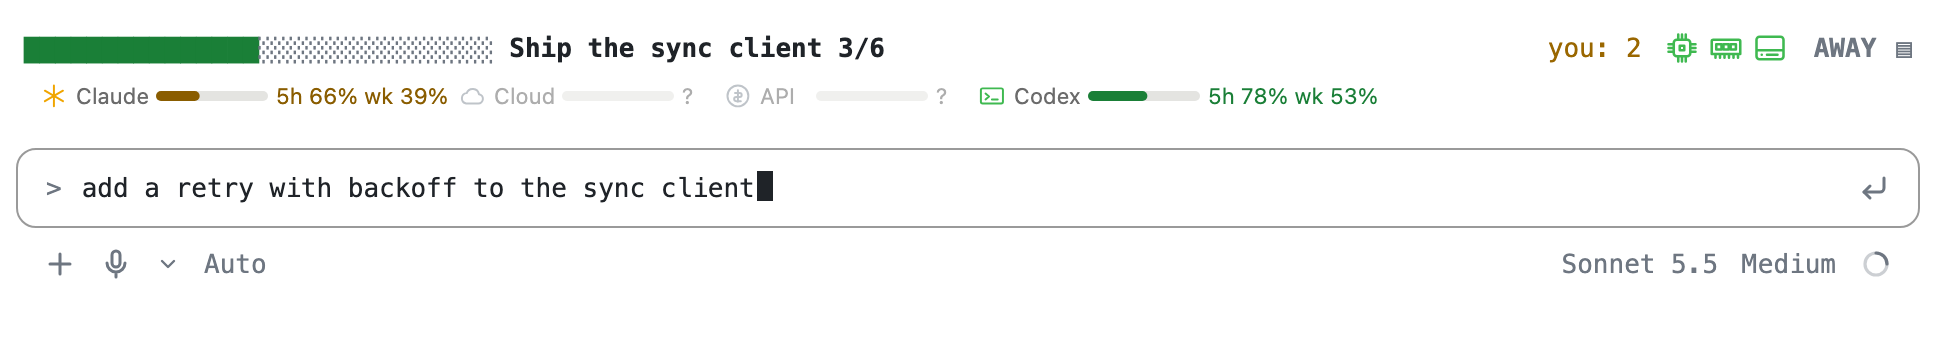
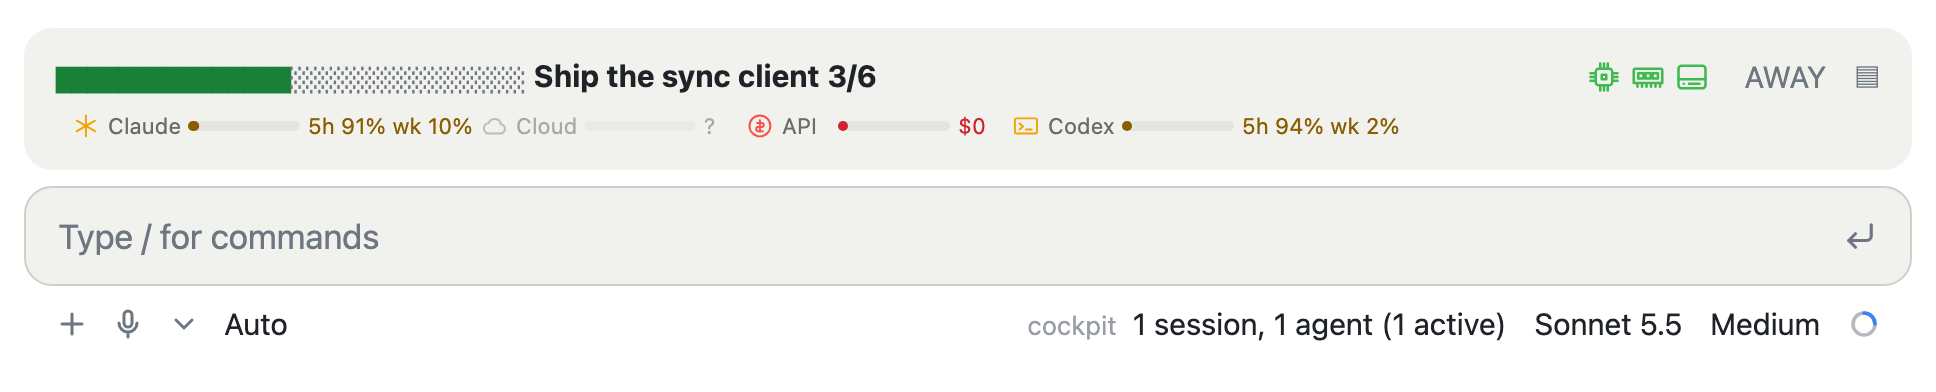
COCKPIT-64: the README status-row picture matches the real cockpit screen (status card, empty input box, footer slot text, real meter colours)

diff --git a/tools/shot.ts b/tools/shot.ts
@@ -364,12 +364,12 @@ async function shootRow(theme: 'dark' | 'light', file: string): Promise<string> 
   const fg = dark ? '#ececec' : '#1f2328'
   const dim = dark ? '#8b8b8b' : '#6e7681'
   const box = dark ? '#6b6b6b' : '#9a9a9a'
-  const W = bandPx(120)
+  const W = bandPx(120) + 16
   const T = now
-  const win = claudeWindows([{ kind: 'five_hour', percentUsed: 34, resetsAt: new Date(T + 3 * 3_600_000).toISOString() }, { kind: 'seven_day', percentUsed: 61, resetsAt: new Date(T + 3 * 86_400_000).toISOString() }], emptyCache, T)
-  const lim = `{"rate_limits":{"primary":{"used_percent":22,"window_minutes":300,"resets_at":${Math.floor(T / 1000) + 9000}},"secondary":{"used_percent":47,"window_minutes":10080,"resets_at":${Math.floor(T / 1000) + 300000}}}}\n`
-  const cr = parseCreditsFile(JSON.stringify({ opencode: { total: 200, left: 118.4, expires: '2026-11-01', source: 'console' }, cloud: { expires: '2026-11-30' } }))
-  const rows = serviceRows({ nowMs: T, claude: { five: win.five, week: win.week }, codex: codexPool(parseCodexLimits(lim), T, null), codexAtMs: T, credits: cr, creditsAtMs: T, apiSpendSince: { usd: 31, atMs: T }, rows: [], outages: [], localUp: true })
+  const win = claudeWindows([{ kind: 'five_hour', percentUsed: 9, resetsAt: new Date(T + 3 * 3_600_000).toISOString() }, { kind: 'seven_day', percentUsed: 90, resetsAt: new Date(T + 3 * 86_400_000).toISOString() }], emptyCache, T)
+  const lim = `{"rate_limits":{"primary":{"used_percent":6,"window_minutes":300,"resets_at":${Math.floor(T / 1000) + 9000}},"secondary":{"used_percent":98,"window_minutes":10080,"resets_at":${Math.floor(T / 1000) + 300000}}}}\n`
+  const cr = parseCreditsFile(JSON.stringify({ opencode: { total: 200, left: 0, expires: '2026-11-30', source: 'console 2026-10-01' }, cloud: { expires: '2026-11-30' } }))
+  const rows = serviceRows({ nowMs: T, claude: { five: win.five, week: win.week }, codex: codexPool(parseCodexLimits(lim), T, null), codexAtMs: T, credits: cr, creditsAtMs: T, apiSpendSince: { usd: 0, atMs: T }, rows: [], outages: [], localUp: true })
   const reading = { ...emptyReading, memFree: 41, swapMB: 0, load1: 3.4, cores: 10, diskFree: 52 }
   const icons = healthIcons(reading, [])
   const iconsSvg = `<svg width="${icons.length * 22}" height="20" xmlns="http://www.w3.org/2000/svg">${icons.map((ic, i) => glyphFragment(ic.kind, ic.hex, i * 22 + 1, 1, 18)).join('')}</svg>`
@@ -378,14 +378,17 @@ async function shootRow(theme: 'dark' | 'light', file: string): Promise<string> 
   const tb = textBar(0.5, hc.cells)
   const green = dark ? '#3FB950' : '#1a7f37'
   const amber = dark ? '#F0A500' : '#9a6700'
-  const row1 = `<div style="display:flex;justify-content:space-between;align-items:center;white-space:pre"><div><span style="color:${green}">${tb.filled}</span><span style="color:${dim}">${tb.empty}</span> <b>${hc.title}</b> <b>${hc.count}</b></div><div style="display:flex;align-items:center;gap:10px"><span style="color:${amber}">you: 2</span>${iconsSvg}<b style="color:${dim}">AWAY</b><span style="color:${dim}">\u25a4</span></div></div>`
-  const row2 = img(creditsSvg(W - 16, rows), W - 16, 28)
-  const html = `<!doctype html><meta charset="utf-8"><body style="margin:0;background:${bg};color:${fg};font:13px/20px Menlo,Monaco,monospace"><div style="width:${W}px;padding:14px 8px 12px"><div style="padding:0 4px">${row1}${row2}</div>
-<div style="margin:12px 0 0;border:1px solid ${box};border-radius:10px;padding:9px 14px;display:flex;gap:10px;align-items:flex-start"><span style="color:${dim}">&gt;</span><span style="flex:1">add a retry with backoff to the sync client<span style="display:inline-block;width:8px;height:15px;background:${fg};vertical-align:-2px;margin-left:1px"></span></span><svg width="16" height="18" viewBox="0 0 16 16" fill="none" stroke="${dim}" stroke-width="1.5" stroke-linecap="round" stroke-linejoin="round" style="margin-top:1px"><path d="M13 3v5a2 2 0 0 1-2 2H3"/><path d="M6 7l-3 3 3 3"/></svg></div>
-<div style="padding:8px 14px 0;color:${dim};display:flex;justify-content:space-between;align-items:center"><span style="display:flex;align-items:center;gap:12px"><svg width="16" height="16" viewBox="0 0 16 16" fill="none" stroke="${dim}" stroke-width="1.5" stroke-linecap="round"><path d="M8 3v10M3 8h10"/></svg><svg width="16" height="16" viewBox="0 0 16 16" fill="none" stroke="${dim}" stroke-width="1.5" stroke-linecap="round" stroke-linejoin="round"><rect x="6" y="1.5" width="4" height="8" rx="2"/><path d="M3.5 7.5a4.5 4.5 0 0 0 9 0M8 12v2.5"/></svg><svg width="12" height="12" viewBox="0 0 16 16" fill="none" stroke="${dim}" stroke-width="1.6" stroke-linecap="round" stroke-linejoin="round"><path d="M4 6l4 4 4-4"/></svg><span>Auto</span></span><span style="display:flex;align-items:center;gap:12px"><span>Sonnet 5.5</span><span>Medium</span><svg width="16" height="16" viewBox="0 0 16 16" fill="none" stroke="${dim}" stroke-width="1.6" stroke-linecap="round"><circle cx="8" cy="8" r="5.5" opacity=".35"/><path d="M8 2.5a5.5 5.5 0 0 1 5.5 5.5"/></svg></span></div></div>`
+  const cardBg = dark ? '#222222' : '#f1f1ee'
+  const pageBg = dark ? '#171717' : '#ffffff'
+  const row1 = `<div style="display:flex;justify-content:space-between;align-items:center;white-space:pre"><div><span style="font-family:Menlo,Monaco,monospace;font-size:13px"><span style="color:${green}">${tb.filled}</span><span style="color:${dim}">${tb.empty}</span></span> <b>${hc.title}</b> <b>${hc.count}</b></div><div style="display:flex;align-items:center;gap:14px">${iconsSvg}<span style="color:${dim};font-size:15px">AWAY</span><span style="color:${dim}">\u25a4</span></div></div>`
+  const row2 = img(creditsSvg(W - 56, rows), W - 56, 28)
+  const ic = (d: string): string => `<svg width="16" height="16" viewBox="0 0 16 16" fill="none" stroke="${dim}" stroke-width="1.5" stroke-linecap="round" stroke-linejoin="round">${d}</svg>`
+  const html = `<!doctype html><meta charset="utf-8"><body style="margin:0;background:${pageBg};color:${fg};font:13px/20px Menlo,Monaco,monospace"><div style="width:${W}px;padding:14px 12px 12px;box-sizing:border-box"><div style="background:${cardBg};border-radius:14px;padding:14px 16px 8px;font-family:-apple-system,BlinkMacSystemFont,sans-serif;font-size:15px">${row1}${row2}</div>
+<div style="margin:8px 0 0;background:${cardBg};border:1px solid ${dark ? '#3a3a3a' : '#cfcfca'};border-radius:14px;padding:14px 16px;display:flex;gap:10px;align-items:center;font:17px -apple-system,BlinkMacSystemFont,sans-serif"><span style="flex:1;color:${dim}">Type / for commands</span><svg width="18" height="18" viewBox="0 0 16 16" fill="none" stroke="${dim}" stroke-width="1.4" stroke-linecap="round" stroke-linejoin="round"><path d="M13 3v5a2 2 0 0 1-2 2H3"/><path d="M6 7l-3 3 3 3"/></svg></div>
+<div style="padding:10px 16px 0;color:${dim};display:flex;justify-content:space-between;align-items:center;font:15px -apple-system,BlinkMacSystemFont,sans-serif"><span style="display:flex;align-items:center;gap:12px">${ic('<path d="M8 3v10M3 8h10"/>')}${ic('<rect x="6" y="1.5" width="4" height="8" rx="2"/><path d="M3.5 7.5a4.5 4.5 0 0 0 9 0M8 12v2.5"/>')}${ic('<path d="M4 6l4 4 4-4"/>')}<span style="color:${fg}">Auto</span></span><span style="display:flex;align-items:center;gap:14px"><span><span style="font-size:13px;opacity:.7">cockpit</span>&nbsp; <span style="color:${fg}">1 session, 1 agent (1 active)</span></span><span style="color:${fg}">Sonnet 5.5</span><span style="color:${fg}">Medium</span><svg width="16" height="16" viewBox="0 0 16 16" fill="none" stroke="#3b82f6" stroke-width="1.8" stroke-linecap="round"><circle cx="8" cy="8" r="5.5" stroke="${dim}" opacity=".5"/><path d="M8 2.5a5.5 5.5 0 0 1 5.5 5.5"/></svg></span></div></div>`
   const base = join(OUT, file)
   writeFileSync(join(PAGES, file + '.html'), html)
-  const p = Bun.spawn([CHROME, '--headless=new', '--disable-gpu', '--hide-scrollbars', '--force-device-scale-factor=2', `--screenshot=${base}.png`, `--window-size=${W + 16},176`, 'file://' + join(PAGES, file + '.html')], { stdout: 'ignore', stderr: 'ignore' })
+  const p = Bun.spawn([CHROME, '--headless=new', '--disable-gpu', '--hide-scrollbars', '--force-device-scale-factor=2', `--screenshot=${base}.png`, `--window-size=${W},196`, 'file://' + join(PAGES, file + '.html')], { stdout: 'ignore', stderr: 'ignore' })
   await p.exited
   return base + '.png'
 }

diff --git a/README.md b/README.md
@@ -7,7 +7,7 @@ A live status row, side pane and agent view for Claude Code. It shows what your 
 <p align="center">
   <picture>
     <source media="(prefers-color-scheme: light)" srcset="docs/img/status-row-light.png">
-    <img src="docs/img/status-row-dark.png" alt="The bottom of the screen: the Cockpit status row (progress bar, 3 of 6 done, credit meters, AWAY), the Claude Code input box with its return icon, and the default row under it: plus, microphone, chevron and the Auto mode on the left, the model, the effort and a progress icon on the right" width="840">
+    <img src="docs/img/status-row-dark.png" alt="The bottom of the Claude Code screen: a rounded Cockpit card with the progress bar, 3 of 6 done, AWAY, and the credit meters for Claude, Cloud, API and Codex; under it the empty input box with its Type / for commands hint and return icon; and the default row with plus, microphone, chevron and Auto on the left, the Cockpit session count, the model, the effort and a progress icon on the right" width="840">
   </picture>
 </p>
 
